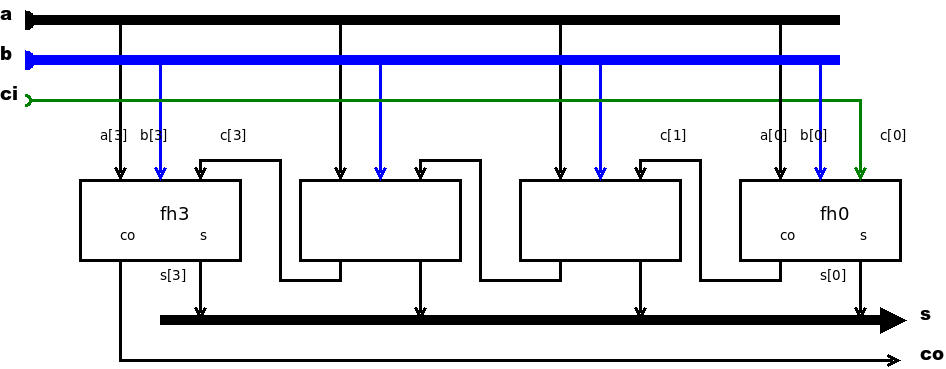
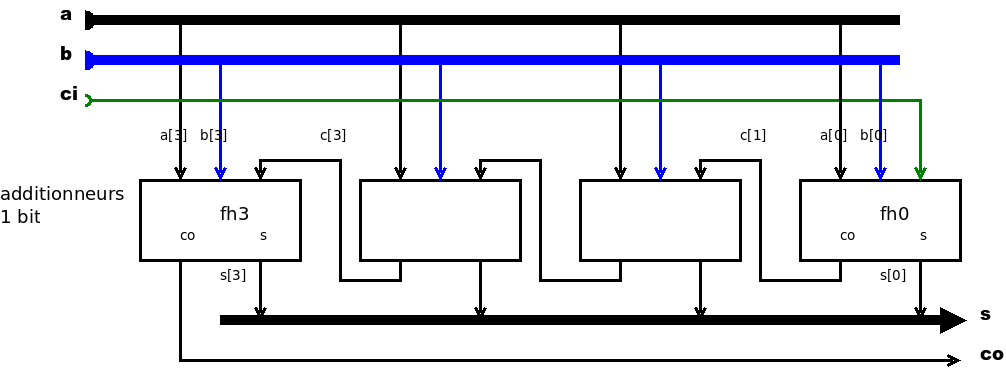
Correction et simplification additionneur 4 bits

diff --git a/HTML-PUBLIC/additionneur-verilog.html b/HTML-PUBLIC/additionneur-verilog.html
@@ -349,6 +349,8 @@ padding: 0.5em;
 <li><a href="#additionneur-4-bits"><span class="toc-section-number">4</span> Additionneur 4 bits</a>
 <ul>
 <li><a href="#description-en-verilog"><span class="toc-section-number">4.1</span> Description en Verilog</a></li>
+<li><a href="#vérification-du-fonctionnement"><span class="toc-section-number">4.2</span> Vérification du fonctionnement</a></li>
+<li><a href="#exécution-du-test"><span class="toc-section-number">4.3</span> Exécution du test</a></li>
 </ul></li>
 </ul>
 </nav>
@@ -603,45 +605,104 @@ $ ./test-full-adder
 <p>Un additionneur de 4 bits est constitué de 4 additionneurs 1 bit, en connectant la retenue sortante de l’un à la retenue entrante de son voisin.</p>
 <p>Pour pouvoir chainer des additionneurs 4 bits, en plus des 2 nombres de 4 bits on a aussi une retenue entrante et une retenue sortante.</p>
 <figure>
[2 lines of base64/hex data omitted]
 </figure>
 <h2 data-number="4.1" id="description-en-verilog"><span class="header-section-number">4.1</span> Description en Verilog</h2>
-<div class="sourceCode" id="cb8"><pre class="sourceCode verilog"><code class="sourceCode verilog"><span id="cb8-1"><a href="#cb8-1" aria-hidden="true"></a><span class="ot">`include </span><span class="fl">&quot;full-adder.vl&quot;</span></span>
-<span id="cb8-2"><a href="#cb8-2" aria-hidden="true"></a></span>
-<span id="cb8-3"><a href="#cb8-3" aria-hidden="true"></a><span class="kw">module</span> four_bit_adder</span>
-<span id="cb8-4"><a href="#cb8-4" aria-hidden="true"></a>  (</span>
-<span id="cb8-5"><a href="#cb8-5" aria-hidden="true"></a>   <span class="dt">output</span>              co, </span>
-<span id="cb8-6"><a href="#cb8-6" aria-hidden="true"></a>   <span class="dt">output</span>[NB_BITS<span class="dv">-1</span>:<span class="dv">0</span>] s, </span>
-<span id="cb8-7"><a href="#cb8-7" aria-hidden="true"></a>   <span class="dt">input</span> [NB_BITS<span class="dv">-1</span>:<span class="dv">0</span>] a,</span>
-<span id="cb8-8"><a href="#cb8-8" aria-hidden="true"></a>   <span class="dt">input</span> [NB_BITS<span class="dv">-1</span>:<span class="dv">0</span>] b,</span>
-<span id="cb8-9"><a href="#cb8-9" aria-hidden="true"></a>   <span class="dt">input</span>               ci</span>
-<span id="cb8-10"><a href="#cb8-10" aria-hidden="true"></a>   );</span>
-<span id="cb8-11"><a href="#cb8-11" aria-hidden="true"></a></span>
-<span id="cb8-12"><a href="#cb8-12" aria-hidden="true"></a>   <span class="dt">parameter</span> NB_BITS = <span class="dv">4</span>;</span>
-<span id="cb8-13"><a href="#cb8-13" aria-hidden="true"></a></span>
-<span id="cb8-14"><a href="#cb8-14" aria-hidden="true"></a>   <span class="dt">wire</span> [NB_BITS : <span class="dv">0</span>] c;</span>
-<span id="cb8-15"><a href="#cb8-15" aria-hidden="true"></a></span>
-<span id="cb8-16"><a href="#cb8-16" aria-hidden="true"></a>   <span class="kw">assign</span> c[<span class="dv">0</span>] = ci;</span>
-<span id="cb8-17"><a href="#cb8-17" aria-hidden="true"></a>   full_adder fh0(c[<span class="dv">1</span>], s[<span class="dv">0</span>], a[<span class="dv">0</span>], b[<span class="dv">0</span>], c[<span class="dv">0</span>]);</span>
-<span id="cb8-18"><a href="#cb8-18" aria-hidden="true"></a>   full_adder fh1(c[<span class="dv">2</span>], s[<span class="dv">1</span>], a[<span class="dv">1</span>], b[<span class="dv">1</span>], c[<span class="dv">1</span>]);</span>
-<span id="cb8-19"><a href="#cb8-19" aria-hidden="true"></a>   full_adder fh2(c[<span class="dv">3</span>], s[<span class="dv">2</span>], a[<span class="dv">2</span>], b[<span class="dv">2</span>], c[<span class="dv">2</span>]); </span>
-<span id="cb8-20"><a href="#cb8-20" aria-hidden="true"></a>   full_adder fh3(c[<span class="dv">4</span>], s[<span class="dv">3</span>], a[<span class="dv">3</span>], b[<span class="dv">3</span>], c[<span class="dv">3</span>]);</span>
-<span id="cb8-21"><a href="#cb8-21" aria-hidden="true"></a>   <span class="kw">assign</span> co = c[<span class="dv">4</span>];</span>
-<span id="cb8-22"><a href="#cb8-22" aria-hidden="true"></a>  </span>
-<span id="cb8-23"><a href="#cb8-23" aria-hidden="true"></a><span class="kw">endmodule</span> <span class="co">// four_bit_adder</span></span></code></pre></div>
+<div class="sourceCode" id="cb8"><pre class="sourceCode verilog"><code class="sourceCode verilog"><span id="cb8-1"><a href="#cb8-1" aria-hidden="true"></a><span class="co">// four-bit-adder.vl</span></span>
+<span id="cb8-2"><a href="#cb8-2" aria-hidden="true"></a><span class="co">// Additionneur 2 x 4 bits, avec retenues entrante et sortante</span></span>
+<span id="cb8-3"><a href="#cb8-3" aria-hidden="true"></a></span>
+<span id="cb8-4"><a href="#cb8-4" aria-hidden="true"></a><span class="ot">`include </span><span class="fl">&quot;full-adder.vl&quot;</span></span>
+<span id="cb8-5"><a href="#cb8-5" aria-hidden="true"></a></span>
+<span id="cb8-6"><a href="#cb8-6" aria-hidden="true"></a><span class="kw">module</span> four_bit_adder</span>
+<span id="cb8-7"><a href="#cb8-7" aria-hidden="true"></a>  (</span>
+<span id="cb8-8"><a href="#cb8-8" aria-hidden="true"></a>   <span class="dt">output</span>              co, </span>
+<span id="cb8-9"><a href="#cb8-9" aria-hidden="true"></a>   <span class="dt">output</span>[NB_BITS<span class="dv">-1</span>:<span class="dv">0</span>] s, </span>
+<span id="cb8-10"><a href="#cb8-10" aria-hidden="true"></a>   <span class="dt">input</span> [NB_BITS<span class="dv">-1</span>:<span class="dv">0</span>] a,</span>
+<span id="cb8-11"><a href="#cb8-11" aria-hidden="true"></a>   <span class="dt">input</span> [NB_BITS<span class="dv">-1</span>:<span class="dv">0</span>] b,</span>
+<span id="cb8-12"><a href="#cb8-12" aria-hidden="true"></a>   <span class="dt">input</span>               ci</span>
+<span id="cb8-13"><a href="#cb8-13" aria-hidden="true"></a>   );</span>
+<span id="cb8-14"><a href="#cb8-14" aria-hidden="true"></a></span>
+<span id="cb8-15"><a href="#cb8-15" aria-hidden="true"></a>   <span class="dt">parameter</span> NB_BITS = <span class="dv">4</span>;</span>
+<span id="cb8-16"><a href="#cb8-16" aria-hidden="true"></a></span>
+<span id="cb8-17"><a href="#cb8-17" aria-hidden="true"></a>   <span class="dt">wire</span> [NB_BITS : <span class="dv">1</span>] c;</span>
+<span id="cb8-18"><a href="#cb8-18" aria-hidden="true"></a></span>
+<span id="cb8-19"><a href="#cb8-19" aria-hidden="true"></a>   full_adder fh0(c[<span class="dv">1</span>], s[<span class="dv">0</span>], a[<span class="dv">0</span>], b[<span class="dv">0</span>], ci);</span>
+<span id="cb8-20"><a href="#cb8-20" aria-hidden="true"></a>   full_adder fh1(c[<span class="dv">2</span>], s[<span class="dv">1</span>], a[<span class="dv">1</span>], b[<span class="dv">1</span>], c[<span class="dv">1</span>]);</span>
+<span id="cb8-21"><a href="#cb8-21" aria-hidden="true"></a>   full_adder fh2(c[<span class="dv">3</span>], s[<span class="dv">2</span>], a[<span class="dv">2</span>], b[<span class="dv">2</span>], c[<span class="dv">2</span>]); </span>
+<span id="cb8-22"><a href="#cb8-22" aria-hidden="true"></a>   full_adder fh3(co,   s[<span class="dv">3</span>], a[<span class="dv">3</span>], b[<span class="dv">3</span>], c[<span class="dv">3</span>]);</span>
+<span id="cb8-23"><a href="#cb8-23" aria-hidden="true"></a></span>
+<span id="cb8-24"><a href="#cb8-24" aria-hidden="true"></a><span class="kw">endmodule</span> <span class="co">// four_bit_adder</span></span></code></pre></div>
 <p>Notes :</p>
 <ol type="1">
 <li>Pour la lisibilité, on utilise une constante <code>NB_BITS</code> qui vaut 4.</li>
 <li>Les entrées <code>a</code> et <code>b</code> et la sortie <code>s</code> sont des “bus”, des faisceaux de fils indicés de 0 à <code>NB_BITS-1</code>.</li>
-<li>Les retenues sont interconnectées par un bus interne <code>c</code>.</li>
-<li>La déclaration <code>assign c[0] = ci;</code> indique que <code>c[0]</code> (retenue entrante de <code>fh0</code>) prend sa valeur sur l’entrée <code>ci</code> du circuit. De même le <code>co</code> du circuit provient du <code>c[4]</code>, retenue sortante de <code>fh3</code>.</li>
-<li>pour les autres, la retenue entrante de l’un provient de la retenue sortante de son voisin.</li>
+<li>Les retenues sont interconnectées par un bus interne <code>c</code> dont les fils sont numérotés de 1 à <code>NB_BITS-1</code>.</li>
 </ol>
-<p>Il faut bien distinguer “<code>assign</code>” des affectations que nous avons utilisé dans les simulations.</p>
+<p>Remarque : Les connexions des 4 instances de “full_adder” étant similaires, on pourrait utiliser une possibilité plus avancée de Verilog, consistant à écrire une <strong>boucle de génération</strong>.</p>
+<h2 data-number="4.2" id="vérification-du-fonctionnement"><span class="header-section-number">4.2</span> Vérification du fonctionnement</h2>
+<p>Ce circuit possède 2 entrées de 4 bits, plus une pour la retenue entrante, soit 9 bits.</p>
+<p>Le test va consister à verifier que pour chaque combinaison possible (qui représente deux entiers entre 0 et 15 et une retenue entrante qui vaut 0 ou 1), ce que le circuit calcule correspond bien à la somme de ces trois valeurs.</p>
+<p>Au lieu de tout faire afficher (512 cas, soit une dizaine de pages de texte à raison d’une ligne par cas…), nous faisons seulement afficher les anomalies.</p>
+<div class="sourceCode" id="cb9"><pre class="sourceCode verilog"><code class="sourceCode verilog"><span id="cb9-1"><a href="#cb9-1" aria-hidden="true"></a><span class="co">// test-four-bit-adder.vl</span></span>
+<span id="cb9-2"><a href="#cb9-2" aria-hidden="true"></a></span>
+<span id="cb9-3"><a href="#cb9-3" aria-hidden="true"></a><span class="ot">`include </span><span class="fl">&quot;four-bit-adder.vl&quot;</span></span>
+<span id="cb9-4"><a href="#cb9-4" aria-hidden="true"></a></span>
+<span id="cb9-5"><a href="#cb9-5" aria-hidden="true"></a><span class="kw">module</span> test_four_bit_adder;</span>
+<span id="cb9-6"><a href="#cb9-6" aria-hidden="true"></a>   <span class="dt">parameter</span> NB_BITS = <span class="dv">4</span>;</span>
+<span id="cb9-7"><a href="#cb9-7" aria-hidden="true"></a>   <span class="dt">parameter</span> MAX_INT = (<span class="dv">1</span> &lt;&lt; NB_BITS) - <span class="dv">1</span>;</span>
+<span id="cb9-8"><a href="#cb9-8" aria-hidden="true"></a>   </span>
+<span id="cb9-9"><a href="#cb9-9" aria-hidden="true"></a>   <span class="dt">reg</span> [NB_BITS - <span class="dv">1</span>:<span class="dv">0</span>]  a;</span>
+<span id="cb9-10"><a href="#cb9-10" aria-hidden="true"></a>   <span class="dt">reg</span> [NB_BITS - <span class="dv">1</span>:<span class="dv">0</span>]  b;</span>
+<span id="cb9-11"><a href="#cb9-11" aria-hidden="true"></a>   <span class="dt">reg</span>        ci;</span>
+<span id="cb9-12"><a href="#cb9-12" aria-hidden="true"></a>   <span class="dt">wire</span> [NB_BITS - <span class="dv">1</span>:<span class="dv">0</span>] s;</span>
+<span id="cb9-13"><a href="#cb9-13" aria-hidden="true"></a>   <span class="dt">wire</span>       co;</span>
+<span id="cb9-14"><a href="#cb9-14" aria-hidden="true"></a>   four_bit_adder adder(co, s, a, b, ci);</span>
+<span id="cb9-15"><a href="#cb9-15" aria-hidden="true"></a>   </span>
+<span id="cb9-16"><a href="#cb9-16" aria-hidden="true"></a>   <span class="kw">initial</span> <span class="kw">begin :</span><span class="dt"> simulation</span></span>
+<span id="cb9-17"><a href="#cb9-17" aria-hidden="true"></a>      <span class="dt">integer</span> i, j, k;</span>
+<span id="cb9-18"><a href="#cb9-18" aria-hidden="true"></a>      <span class="dt">integer</span> expected; </span>
+<span id="cb9-19"><a href="#cb9-19" aria-hidden="true"></a>      <span class="dt">integer</span> errors, cases;</span>
+<span id="cb9-20"><a href="#cb9-20" aria-hidden="true"></a>      <span class="dt">$display</span>(<span class="st">&quot;# Testing four-bit adder&quot;</span>);</span>
+<span id="cb9-21"><a href="#cb9-21" aria-hidden="true"></a>      errors = <span class="dv">0</span>;</span>
+<span id="cb9-22"><a href="#cb9-22" aria-hidden="true"></a>      cases = <span class="dv">0</span>;</span>
+<span id="cb9-23"><a href="#cb9-23" aria-hidden="true"></a></span>
+<span id="cb9-24"><a href="#cb9-24" aria-hidden="true"></a>      <span class="kw">for</span> (i = <span class="dv">0</span>; i &lt;= MAX_INT; i = i + <span class="dv">1</span>) <span class="kw">begin</span></span>
+<span id="cb9-25"><a href="#cb9-25" aria-hidden="true"></a>        <span class="kw">for</span> (j = <span class="dv">0</span>; j &lt;= MAX_INT ; j = j + <span class="dv">1</span>) <span class="kw">begin</span></span>
+<span id="cb9-26"><a href="#cb9-26" aria-hidden="true"></a>           <span class="kw">for</span> (k = <span class="dv">0</span>; k &lt;= <span class="dv">1</span>; k = k + <span class="dv">1</span>) <span class="kw">begin</span></span>
+<span id="cb9-27"><a href="#cb9-27" aria-hidden="true"></a>              a = i;</span>
+<span id="cb9-28"><a href="#cb9-28" aria-hidden="true"></a>              b = j;</span>
+<span id="cb9-29"><a href="#cb9-29" aria-hidden="true"></a>              ci = k;</span>
+<span id="cb9-30"><a href="#cb9-30" aria-hidden="true"></a>              expected = i + j + k;</span>
+<span id="cb9-31"><a href="#cb9-31" aria-hidden="true"></a>              cases = cases + <span class="dv">1</span>;</span>
+<span id="cb9-32"><a href="#cb9-32" aria-hidden="true"></a>              <span class="bn">#1</span> ;</span>
+<span id="cb9-33"><a href="#cb9-33" aria-hidden="true"></a></span>
+<span id="cb9-34"><a href="#cb9-34" aria-hidden="true"></a>              <span class="kw">if</span> ({co,s}  != expected) <span class="kw">begin</span></span>
+<span id="cb9-35"><a href="#cb9-35" aria-hidden="true"></a>                 <span class="dt">$display</span>(<span class="st">&quot;- error %1d + %1d + %1d is %1d instead of %1d&quot;</span>, </span>
+<span id="cb9-36"><a href="#cb9-36" aria-hidden="true"></a>                                         a, b, ci, {co, s}, expected);</span>
+<span id="cb9-37"><a href="#cb9-37" aria-hidden="true"></a>                 errors = errors + <span class="dv">1</span>;</span>
+<span id="cb9-38"><a href="#cb9-38" aria-hidden="true"></a>              <span class="kw">end</span></span>
+<span id="cb9-39"><a href="#cb9-39" aria-hidden="true"></a>              </span>
+<span id="cb9-40"><a href="#cb9-40" aria-hidden="true"></a>           <span class="kw">end</span> <span class="co">// k loop</span></span>
+<span id="cb9-41"><a href="#cb9-41" aria-hidden="true"></a>        <span class="kw">end</span> <span class="co">// j loop</span></span>
+<span id="cb9-42"><a href="#cb9-42" aria-hidden="true"></a>      <span class="kw">end</span> <span class="co">// i loop</span></span>
+<span id="cb9-43"><a href="#cb9-43" aria-hidden="true"></a></span>
+<span id="cb9-44"><a href="#cb9-44" aria-hidden="true"></a>      <span class="dt">$display</span>(<span class="st">&quot;- %1d failures over %1d test cases&quot;</span>, errors, cases);</span>
+<span id="cb9-45"><a href="#cb9-45" aria-hidden="true"></a>   <span class="kw">end</span></span>
+<span id="cb9-46"><a href="#cb9-46" aria-hidden="true"></a><span class="kw">endmodule</span> <span class="co">// test_four_bit_adder</span></span></code></pre></div>
+<p>Pour bien faire, nous affichons à la fin un récapitulatif du nombre de cas testés et du nombre d’anomalies détectées.</p>
+<p><strong>Explications</strong></p>
 <ul>
-<li>dans le cas d’<code>assign</code>, que l’on appelle “continuous assignement”, ça correspond au câblage d’une entrée à quelque chose.</li>
-<li>dans le cas des simulations, c’est une valeur affectée à un registre à un moment donné.</li>
+<li>Les cas sont générées par la triple boucle sur <code>i</code>, <code>j</code> et <code>k</code>.</li>
+<li>L’affectation (exemple <code>a = i</code>) d’un entier à un bus revient à placer les bits de sa représentation binaire sur les fils du bus.</li>
+<li>une expression comme <code>{co,s}</code> représente la concaténation du bit de <code>co</code> avec ceux du bus <code>s</code>.</li>
+<li>Sa valeur numérique - par exemple dans le test <code>if ({co,s} !=   expected)</code> - correspond aussi au codage binaire des entiers.</li>
 </ul>
-<p>Remarque : Les connexions des 4 instances de “full_adder” étant similaires, on pourrait utiliser une technique avancée, consistant à écrire une <strong>boucle de génération</strong>.</p>
+<p><strong>Importance du délai</strong> : dans la boucle, nous insérons un délai (<code>#1</code>) parce qu’après avoir placé les données dans les registres en entrée du circuit (<code>a = i; b = j; ci = k;</code>) il faut un peu de temps avant que les ésultats soient disponibles sur les fils de sortie. La commutation de portes logiques n’est pas instantanée.</p>
+<h2 data-number="4.3" id="exécution-du-test"><span class="header-section-number">4.3</span> Exécution du test</h2>
+<pre><code>$ iverilog -o test-four-bit-adder test-four-bit-adder.vl
+$ ./test-four-bit-adder 
+# Testing four-bit adder
+- 0 failures over 512 test cases</code></pre>
+<p>Tout va bien.</p>
 </body>
 </html>

diff --git a/src/additionneur-verilog.md b/src/additionneur-verilog.md
@@ -311,6 +311,9 @@ a aussi une retenue entrante et une retenue sortante.
 
 
 ~~~verilog
+// four-bit-adder.vl
+// Additionneur 2 x 4 bits, avec retenues entrante et sortante
+
 `include "full-adder.vl"
 
 module four_bit_adder
@@ -324,43 +327,122 @@ module four_bit_adder
 
    parameter NB_BITS = 4;
 
-   wire [NB_BITS : 0] c;
+   wire [NB_BITS : 1] c;
 
-   assign c[0] = ci;
-   full_adder fh0(c[1], s[0], a[0], b[0], c[0]);
+   full_adder fh0(c[1], s[0], a[0], b[0], ci);
    full_adder fh1(c[2], s[1], a[1], b[1], c[1]);
    full_adder fh2(c[3], s[2], a[2], b[2], c[2]); 
-   full_adder fh3(c[4], s[3], a[3], b[3], c[3]);
-   assign co = c[4];
-  
+   full_adder fh3(co,   s[3], a[3], b[3], c[3]);
+
 endmodule // four_bit_adder
 ~~~
    
 Notes : 
 
 1. Pour la lisibilité, on utilise une constante `NB_BITS` qui vaut 4.
-2. Les entrées `a` et `b` et la sortie `s` sont des "bus", des faisceaux de fils
+2. Les entrées `a` et `b` et la sortie `s` sont des "bus", des 
+faisceaux de fils
    indicés de 0 à `NB_BITS-1`.
-3. Les retenues sont interconnectées par un bus interne `c`.
-4. La déclaration `assign c[0] = ci;` indique que `c[0]` (retenue
-entrante de `fh0`) prend sa valeur sur l'entrée `ci` du circuit.  De
-même le `co` du circuit provient du `c[4]`, retenue sortante de `fh3`.
-5. pour les autres, la retenue entrante de l'un provient de la retenue
-   sortante de son voisin.
-
-Il faut bien distinguer "`assign`" des affectations que nous avons utilisé dans les
-simulations.
-
-- dans le cas d'`assign`, que l'on appelle "continuous assignement", ça
-correspond au câblage d'une entrée à quelque chose.
-- dans le cas des simulations, c'est une valeur affectée à un registre
-  à un moment donné.
-  
+3. Les retenues sont interconnectées par un bus interne `c` dont les
+   fils sont numérotés de 1 à `NB_BITS-1`.
 
 
 Remarque : Les connexions des 4 instances de "full_adder" étant
-similaires, on pourrait utiliser une technique avancée, consistant à
-écrire une **boucle de génération**.
+similaires, on pourrait utiliser une possibilité plus avancée de
+Verilog, consistant à écrire une **boucle de génération**.
+
+## Vérification du fonctionnement
+
+Ce circuit possède 2 entrées de 4 bits, plus une pour la retenue
+entrante, soit 9 bits.
+
+Le test va consister à verifier que pour chaque combinaison possible
+(qui représente deux entiers entre 0 et 15 et une retenue entrante qui
+vaut 0 ou 1), ce que le circuit calcule correspond bien à la somme de
+ces trois valeurs.
+
+Au lieu de tout faire afficher (512 cas, soit une dizaine de pages de
+texte à raison d'une ligne par cas...), nous faisons seulement
+afficher les anomalies.
 
 
+~~~verilog
+// test-four-bit-adder.vl
+
+`include "four-bit-adder.vl"
+
+module test_four_bit_adder;
+   parameter NB_BITS = 4;
+   parameter MAX_INT = (1 << NB_BITS) - 1;
+   
+   reg [NB_BITS - 1:0]  a;
+   reg [NB_BITS - 1:0]  b;
+   reg        ci;
+   wire [NB_BITS - 1:0] s;
+   wire 	  co;
+   four_bit_adder adder(co, s, a, b, ci);
+   
+   initial begin : simulation
+	  integer i, j, k;
+	  integer expected;	
+	  integer errors, cases;
+	  $display("# Testing four-bit adder");
+	  errors = 0;
+	  cases = 0;
+
+	  for (i = 0; i <= MAX_INT; i = i + 1) begin
+		for (j = 0; j <= MAX_INT ; j = j + 1) begin
+		   for (k = 0; k <= 1; k = k + 1) begin
+			  a = i;
+			  b = j;
+			  ci = k;
+			  expected = i + j + k;
+			  cases = cases + 1;
+			  #1 ;
+
+			  if ({co,s}  != expected) begin
+				 $display("- error %1d + %1d + %1d is %1d instead of %1d", 
+										 a, b, ci, {co, s}, expected);
+				 errors = errors + 1;
+			  end
+			  
+		   end // k loop
+		end // j loop
+	  end // i loop
+
+	  $display("- %1d failures over %1d test cases", errors, cases);
+   end
+endmodule // test_four_bit_adder
+~~~
+
+Pour bien faire, nous affichons à la fin un récapitulatif du nombre de
+cas testés et du nombre d'anomalies détectées.
+
+**Explications**
+
+- Les cas sont générées par la triple boucle sur `i`, `j` et `k`.
+- L'affectation (exemple `a = i`) d'un entier à un bus revient à
+  placer les bits de sa représentation binaire sur les fils du bus.
+- une expression comme `{co,s}` représente la concaténation du bit de `co` avec ceux du bus `s`. 
+- Sa valeur numérique - par exemple dans le test `if ({co,s} !=
+  expected)` - correspond aussi au codage binaire des entiers.
+  
+
+**Importance du délai** : dans la boucle, nous insérons un délai
+(`#1`) parce qu'après avoir placé les données dans les registres en
+entrée du circuit (`a = i; b = j; ci = k;`) il faut un peu de temps
+avant que les ésultats soient disponibles sur les fils de sortie.  La
+commutation de portes logiques n'est pas instantanée.
+
+
+## Exécution du test
+
+~~~
+$ iverilog -o test-four-bit-adder test-four-bit-adder.vl
+$ ./test-four-bit-adder 
+# Testing four-bit adder
+- 0 failures over 512 test cases
+~~~
+
+Tout va bien.
 
